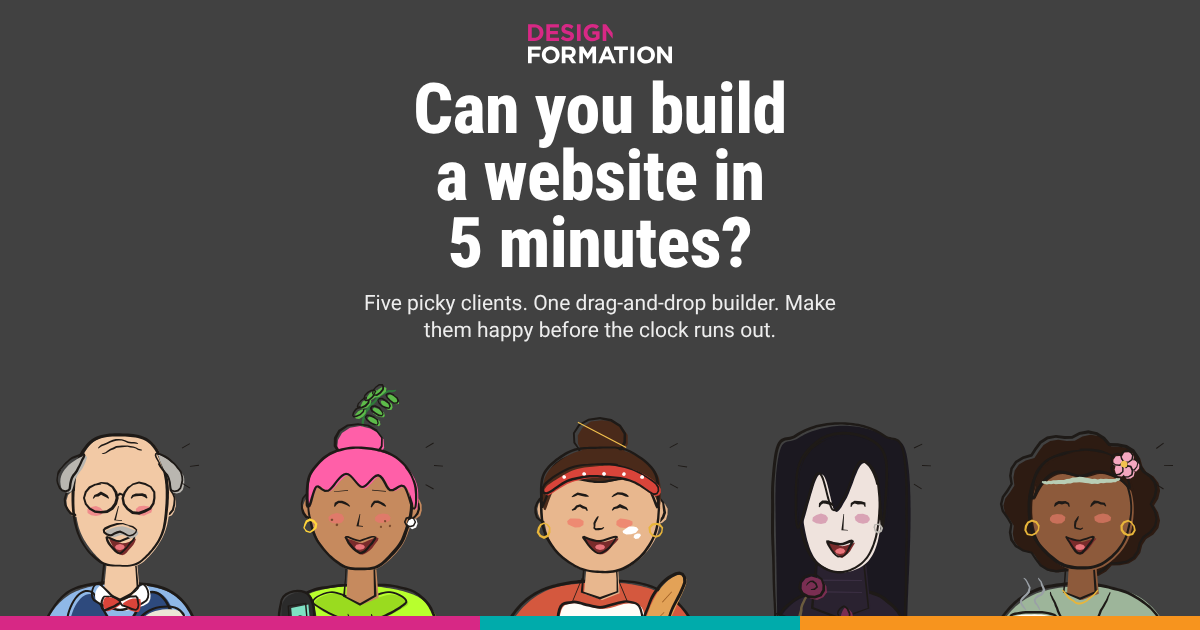
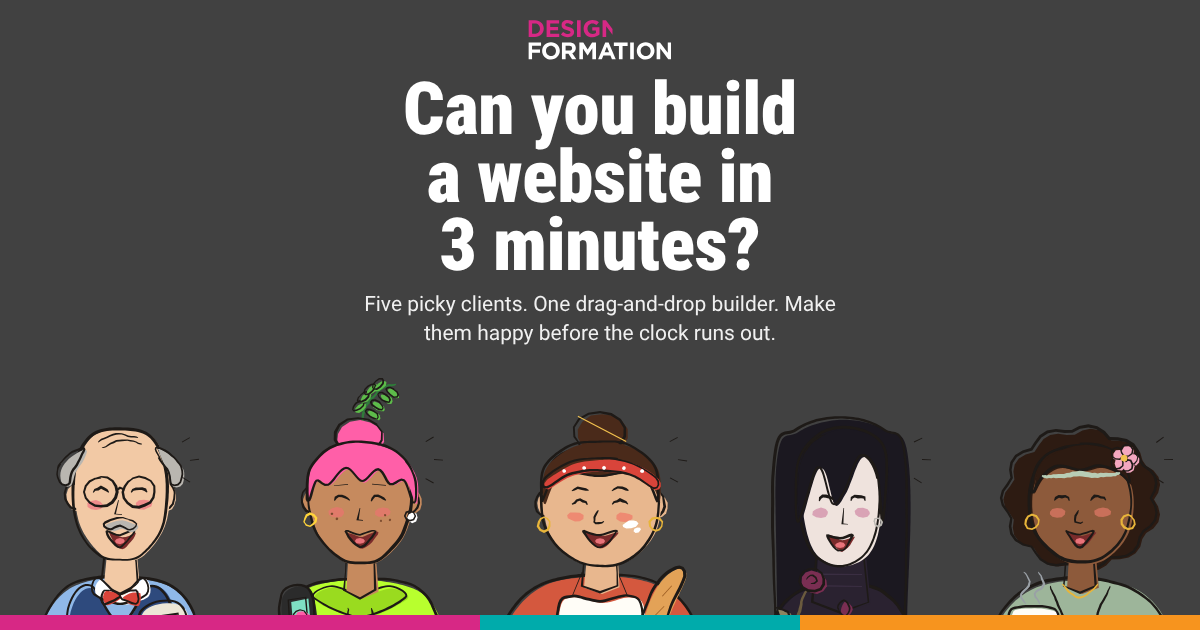
3-minute game: timer 3:00 and every mention of 5 minutes changed to 3
- Timer 180 s (hurry music at 1:00, client hurry line at 0:30, panic at 0:15 unchanged).
- Cover, start, brief, How to play, page title, app name, share card text and file name.
- Social share image redrawn with "3 minutes".
- README, BUILD and design tokens titles.
The web address stays website-in-5-minutes so existing links keep working.

Claude-Session: https://claude.ai/code/session_01PFUUuCWPGNVN7S7VRS9tQ6

diff --git a/index.html b/index.html
@@ -7,11 +7,11 @@
   <meta name="mobile-web-app-capable" content="yes">
   <meta name="apple-mobile-web-app-capable" content="yes">
   <meta name="apple-mobile-web-app-status-bar-style" content="black-translucent">
-  <meta name="apple-mobile-web-app-title" content="5-min website">
+  <meta name="apple-mobile-web-app-title" content="3-min website">
   <link rel="manifest" href="manifest.webmanifest">
   <link rel="icon" type="image/png" sizes="192x192" href="assets/icons/icon-192.png">
   <link rel="apple-touch-icon" href="assets/icons/apple-touch-icon.png">
-  <title>Website in 5 minutes | Langara Design Formation</title>
+  <title>Website in 3 minutes | Langara Design Formation</title>
   <meta name="description" content="A five-minute design game from Langara Design Formation. Pick a picky client and build their website before the clock runs out.">
   <link rel="canonical" href="https://valabanina.github.io/website-in-5-minutes/">
 
@@ -19,20 +19,20 @@
   <meta property="og:type" content="website">
   <meta property="og:site_name" content="Langara Design Formation">
   <meta property="og:url" content="https://valabanina.github.io/website-in-5-minutes/">
-  <meta property="og:title" content="Can you build a website in 5 minutes?">
+  <meta property="og:title" content="Can you build a website in 3 minutes?">
   <meta property="og:description" content="Five picky clients. One drag-and-drop builder. Make them happy before the clock runs out.">
   <meta property="og:image" content="https://valabanina.github.io/website-in-5-minutes/assets/og/og-image.png">
   <meta property="og:image:width" content="1200">
   <meta property="og:image:height" content="630">
-  <meta property="og:image:alt" content="Can you build a website in 5 minutes? The five picky clients of the game, smiling.">
+  <meta property="og:image:alt" content="Can you build a website in 3 minutes? The five picky clients of the game, smiling.">
   <meta property="og:locale" content="en_CA">
 
   <!-- X / Twitter -->
   <meta name="twitter:card" content="summary_large_image">
-  <meta name="twitter:title" content="Can you build a website in 5 minutes?">
+  <meta name="twitter:title" content="Can you build a website in 3 minutes?">
   <meta name="twitter:description" content="Five picky clients. One drag-and-drop builder. Make them happy before the clock runs out.">
   <meta name="twitter:image" content="https://valabanina.github.io/website-in-5-minutes/assets/og/og-image.png">
-  <meta name="twitter:image:alt" content="Can you build a website in 5 minutes? The five picky clients of the game, smiling.">
+  <meta name="twitter:image:alt" content="Can you build a website in 3 minutes? The five picky clients of the game, smiling.">
 
   <!-- Structured data (schema.org) -->
   <script type="application/ld+json">
@@ -42,8 +42,8 @@
       {
         "@type": "VideoGame",
         "@id": "https://valabanina.github.io/website-in-5-minutes/#game",
-        "name": "Website in 5 minutes",
-        "alternateName": "Can you build a website in 5 minutes?",
+        "name": "Website in 3 minutes",
+        "alternateName": "Can you build a website in 3 minutes?",
         "description": "A five-minute design game from Langara Design Formation. Pick a picky client and build their website before the clock runs out.",
         "url": "https://valabanina.github.io/website-in-5-minutes/",
         "image": "https://valabanina.github.io/website-in-5-minutes/assets/og/og-image.png",
@@ -78,7 +78,7 @@
   <a class="skip" href="#main">Skip to content</a>
   <main id="main">
     <section data-screen="attract" aria-label="Attract">
-      <h1>Can you build a website in 5 minutes?</h1>
+      <h1>Can you build a website in 3 minutes?</h1>
       <p>Five picky clients. One drag-and-drop builder. Make them happy before the clock runs out.</p>
       <p>A five-minute design game for Langara College, Department of Design Formation.</p>
     </section>

diff --git a/js/share.js b/js/share.js
@@ -13,7 +13,7 @@ export async function drawShareCard({ game, client, result, elapsed, canvas }) {
   roundRect(ctx, 64, 64, size - 128, size - 128, 36, '#ffffff', '#000000');
   ctx.fillStyle = '#000000';
   ctx.font = '700 36px Roboto, sans-serif';
-  ctx.fillText('Website in 5 minutes', 110, 150);
+  ctx.fillText('Website in 3 minutes', 110, 150);
   ctx.fillStyle = '#D72885';
   ctx.font = '800 28px Roboto Condensed, sans-serif';
   ctx.textAlign = 'right';
@@ -138,7 +138,7 @@ export async function shareResult({ game, client, result, elapsed, stats }) {
   await drawShareCard({ game, client, result, elapsed, canvas });
   const blob = await new Promise((resolve) => canvas.toBlob(resolve, 'image/png'));
   if (!blob) return;
-  const file = new File([blob], 'website-in-5-minutes.png', { type: 'image/png' });
+  const file = new File([blob], 'website-in-3-minutes.png', { type: 'image/png' });
   const who = firstName(client);
   const mood = result.outcome?.id || 'meh';
   const text = game.share.headline
@@ -155,7 +155,7 @@ export async function shareResult({ game, client, result, elapsed, stats }) {
   const url = URL.createObjectURL(blob);
   const a = document.createElement('a');
   a.href = url;
-  a.download = 'website-in-5-minutes.png';
+  a.download = 'website-in-3-minutes.png';
   a.click();
   URL.revokeObjectURL(url);
   stats.send('shared', { method: 'download' });

diff --git a/js/screens/brief.js b/js/screens/brief.js
@@ -33,7 +33,7 @@ export function render(state, game, client) {
             <button type="button" class="btn needs-audio" data-action="play-brief" aria-label="Play ${esc(who)}'s voice"><svg class="btn-ico" viewBox="0 0 24 24" width="20" height="20" aria-hidden="true"><path fill="currentColor" d="M3 9v6h4l5 4V5L7 9H3z"/><path fill="none" stroke="currentColor" stroke-width="2" stroke-linecap="round" d="M16 9a5 5 0 0 1 0 6M18.5 6.5a8 8 0 0 1 0 11"/></svg>Hear ${esc(who)}</button>
             <button type="button" class="btn btn-primary" data-action="to-build">Start building</button>
           </div>
-          <p>You get 5 minutes. The clock starts when you tap Start building.</p>
+          <p>You get 3 minutes. The clock starts when you tap Start building.</p>
         </div>
       </article>
     </div>

diff --git a/js/screens/howto.js b/js/screens/howto.js
@@ -24,7 +24,7 @@ export function render() {
         <article>
           <img class="howto-icon" src="assets/svg/howto/step-4.svg" alt="" width="72" height="72">
           <span class="howto-n">4</span>
-          <p>Send it before the 5 minutes run out, or the Deadline sends it for you.</p>
+          <p>Send it before the 3 minutes run out, or the Deadline sends it for you.</p>
         </article>
       </div>
       <p class="howto-note"><strong>No hints while you build.</strong> Read the brief closely: you find out what the client thinks only after you send it.</p>

diff --git a/js/screens/start.js b/js/screens/start.js
@@ -9,7 +9,7 @@ export function render(state, game) {
       ${muteButton(state.muted)}
     </header>
     <div class="stage-copy moment-rise">
-      <h1>Can you build a website in 5 minutes?</h1>
+      <h1>Can you build a website in 3 minutes?</h1>
       <p>Five picky clients. One drag-and-drop builder. Make them happy before the clock runs out.</p>
       <div class="row-actions">
         <button type="button" class="btn btn-primary" data-action="to-pick">Start the clock</button>

diff --git a/js/main.js b/js/main.js
@@ -685,7 +685,7 @@ function boot(data, cues) {
   const bump = () => {
     window.clearTimeout(idle);
     idle = window.setTimeout(() => {
-      // While building, the 5-minute clock ends the round (Time's up, then the verdict), so never reset mid-game.
+      // While building, the 3-minute clock ends the round (Time's up, then the verdict), so never reset mid-game.
       if (store.get().screen === 'attract' || store.get().screen === 'build') {
         bump();
         return;

diff --git a/js/screens/attract.js b/js/screens/attract.js
@@ -9,7 +9,7 @@ export function render(state, game) {
       ${logo()}
     </header>
     <div class="stage-copy moment-rise">
-      <h1>Can you build a website in 5 minutes?</h1>
+      <h1>Can you build a website in 3 minutes?</h1>
       <p>Five picky clients. One drag-and-drop builder. Make them happy before the clock runs out.</p>
       <button type="button" class="pill" data-action="to-start"><span aria-hidden="true">◎</span> Tap anywhere to play</button>
     </div>

diff --git a/design/tokens.css b/design/tokens.css
@@ -1,5 +1,5 @@
 /* ─────────────────────────────────────────────────────────────
-   Website in 5 minutes · design tokens
+   Website in 3 minutes · design tokens
    Mirrors the Figma variables. Two systems:
    1. Game UI  — the game's own interface (fixed Langara brand)
    2. Website Kit — what players choose for the client's website

diff --git a/js/state.js b/js/state.js
@@ -20,7 +20,7 @@ export function initialState(meta) {
     choiceKey: null,
     deadlineLine: 0,
     picTarget: null,
-    timeLeft: meta?.timerSeconds ?? 300,
+    timeLeft: meta?.timerSeconds ?? 180,
     startedAt: null,
     autoSent: false,
     played: [],

diff --git a/README.md b/README.md
@@ -1,6 +1,6 @@
-# Website in 5 minutes
+# Website in 3 minutes
 
-A five-minute design game for Langara College, Department of Design Formation. Pick a picky cartoon client, read their brief, build their one-page website before the clock runs out, and find out if they're happy. At the end, explore Design Formation, Digital Media & Design and AI Application Design & Development.
+A three-minute design game for Langara College, Department of Design Formation. Pick a picky cartoon client, read their brief, build their one-page website before the clock runs out, and find out if they're happy. At the end, explore Design Formation, Digital Media & Design and AI Application Design & Development.
 
 - **Design:** the [Figma file](https://www.figma.com/design/6NPkrb0UeMPWLPTQtNXFcc/Game---Website-In-5-min)
 - **Hosting:** GitHub Pages, public link

diff --git a/BUILD.md b/BUILD.md
@@ -1,4 +1,4 @@
-# BUILD.md — how to build "Website in 5 minutes"
+# BUILD.md — how to build "Website in 3 minutes"
 
 This is the brief for the coding agent in Cursor. Work through the milestones **in order**. Each one ends with checks; don't move on until they pass. Paste a milestone into Cursor chat as a prompt, or say "Do milestone 3 from BUILD.md".
 
